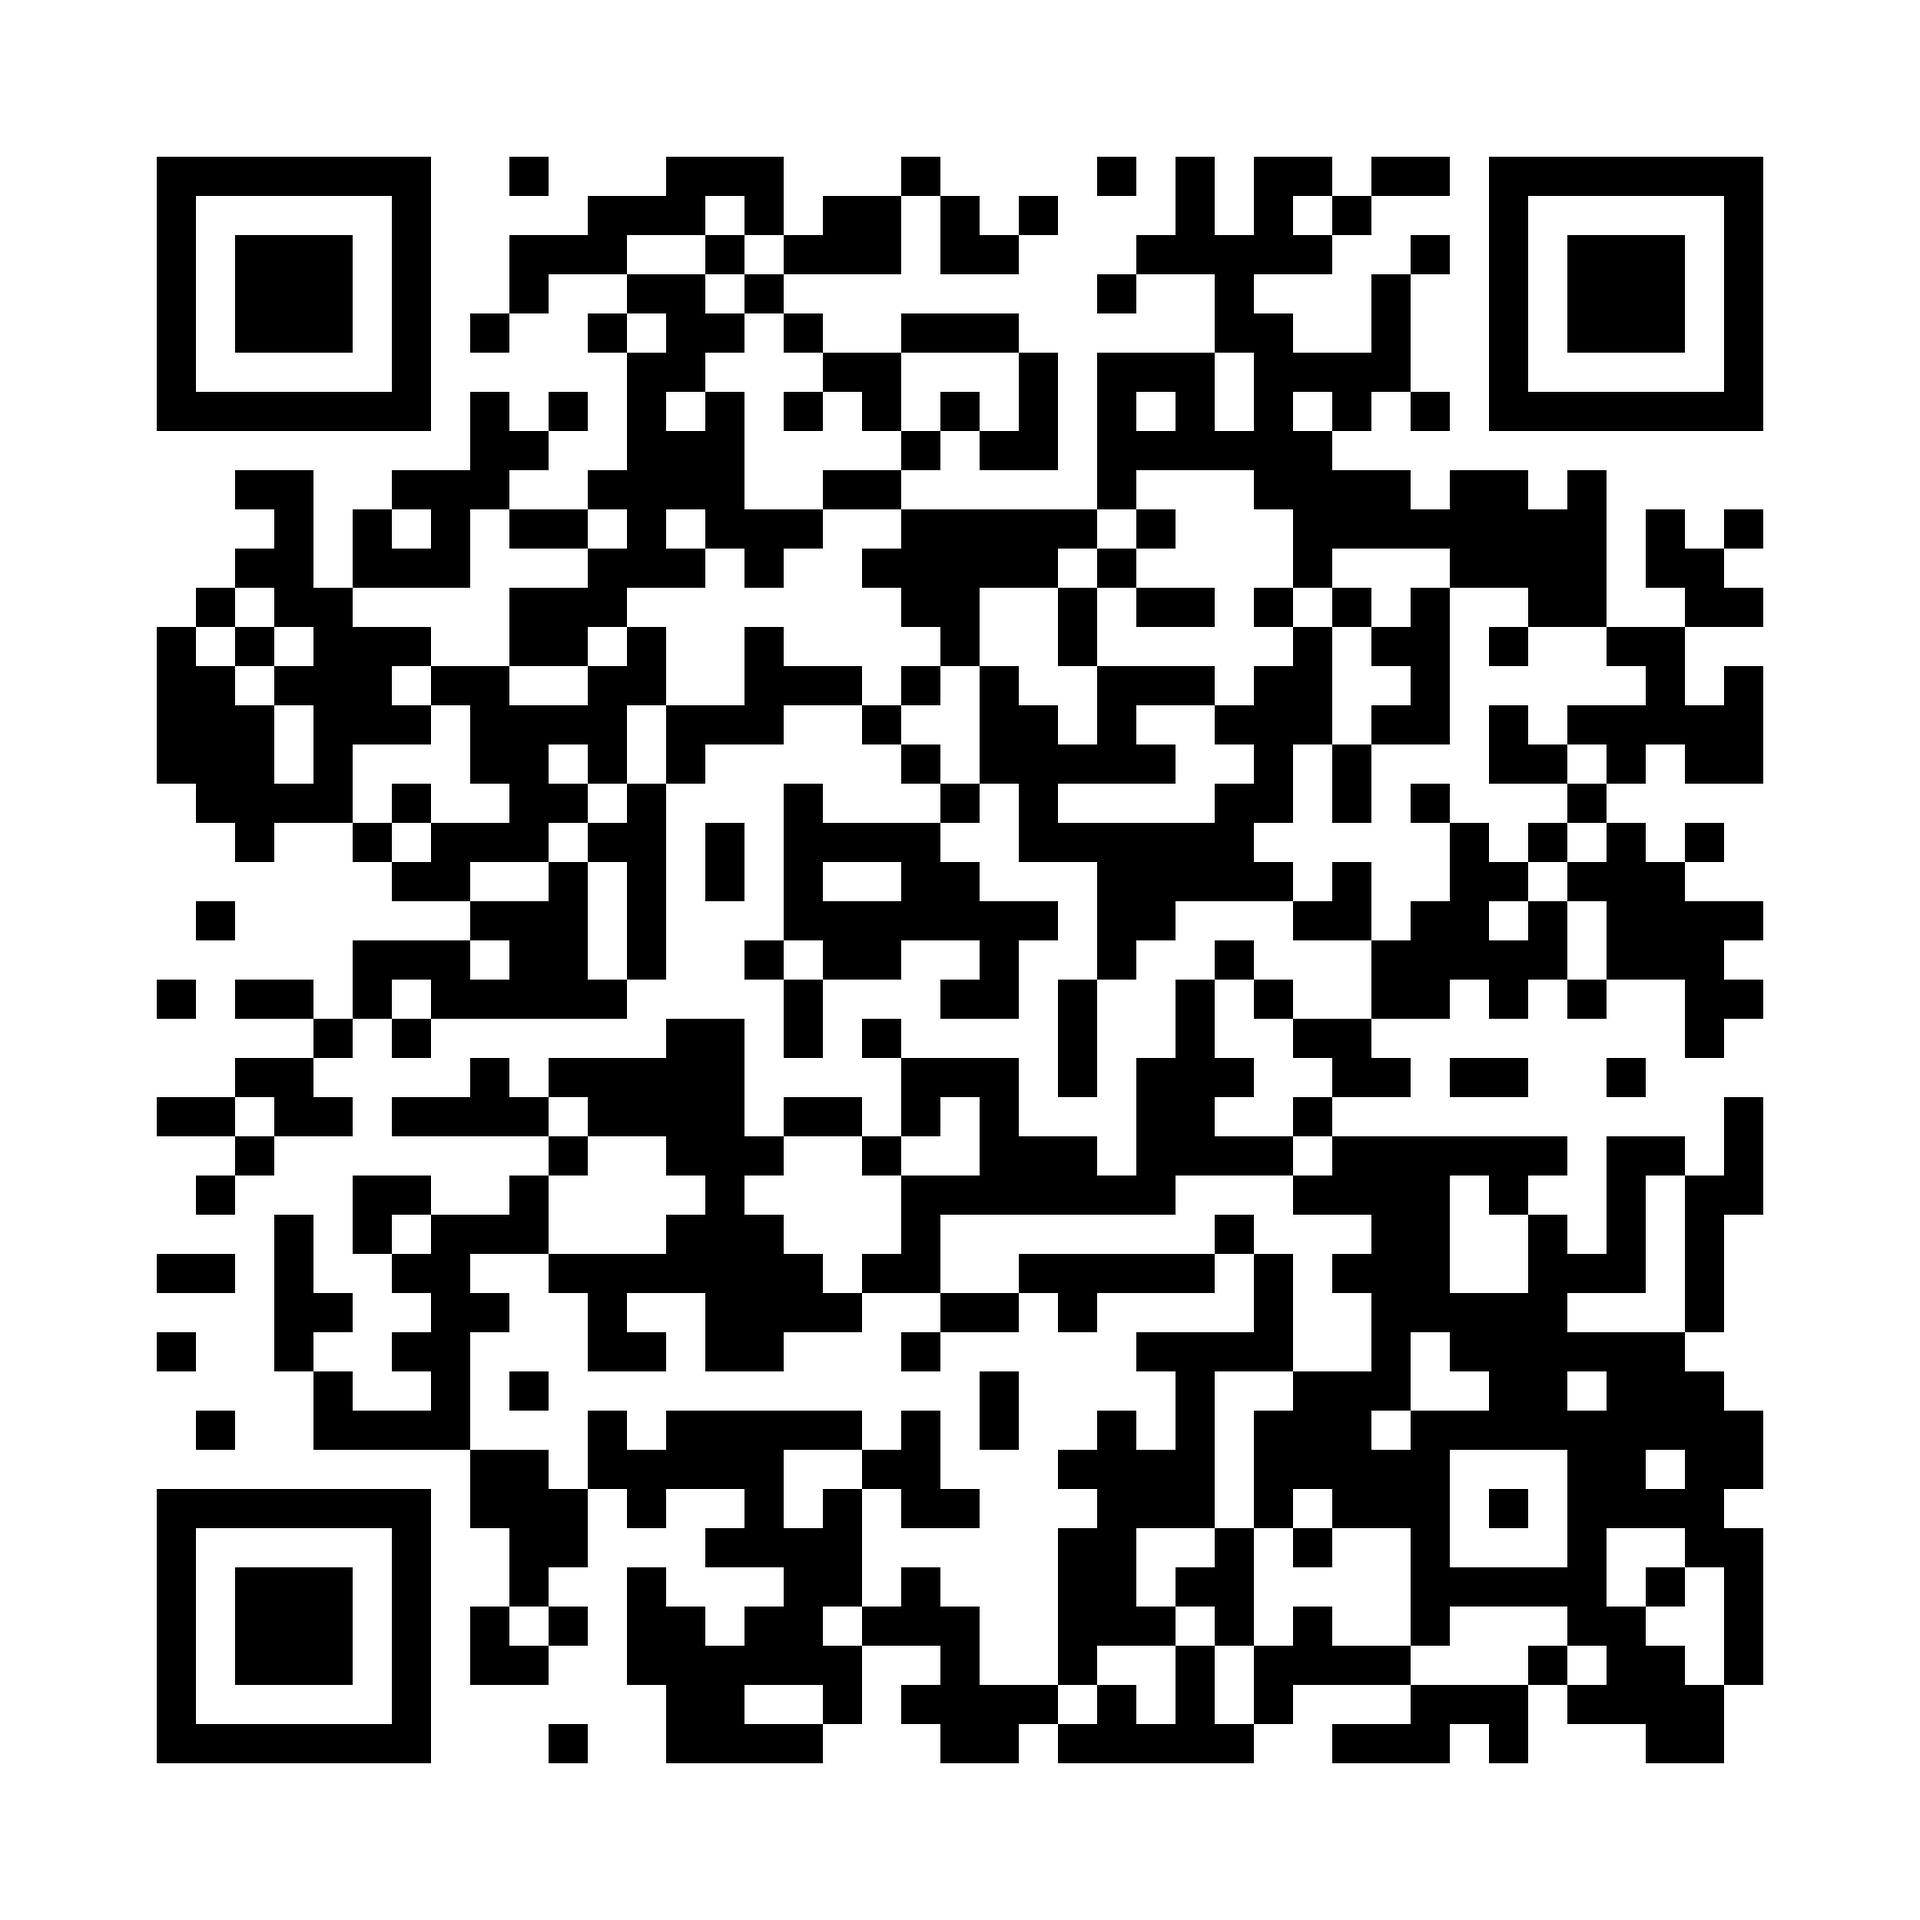
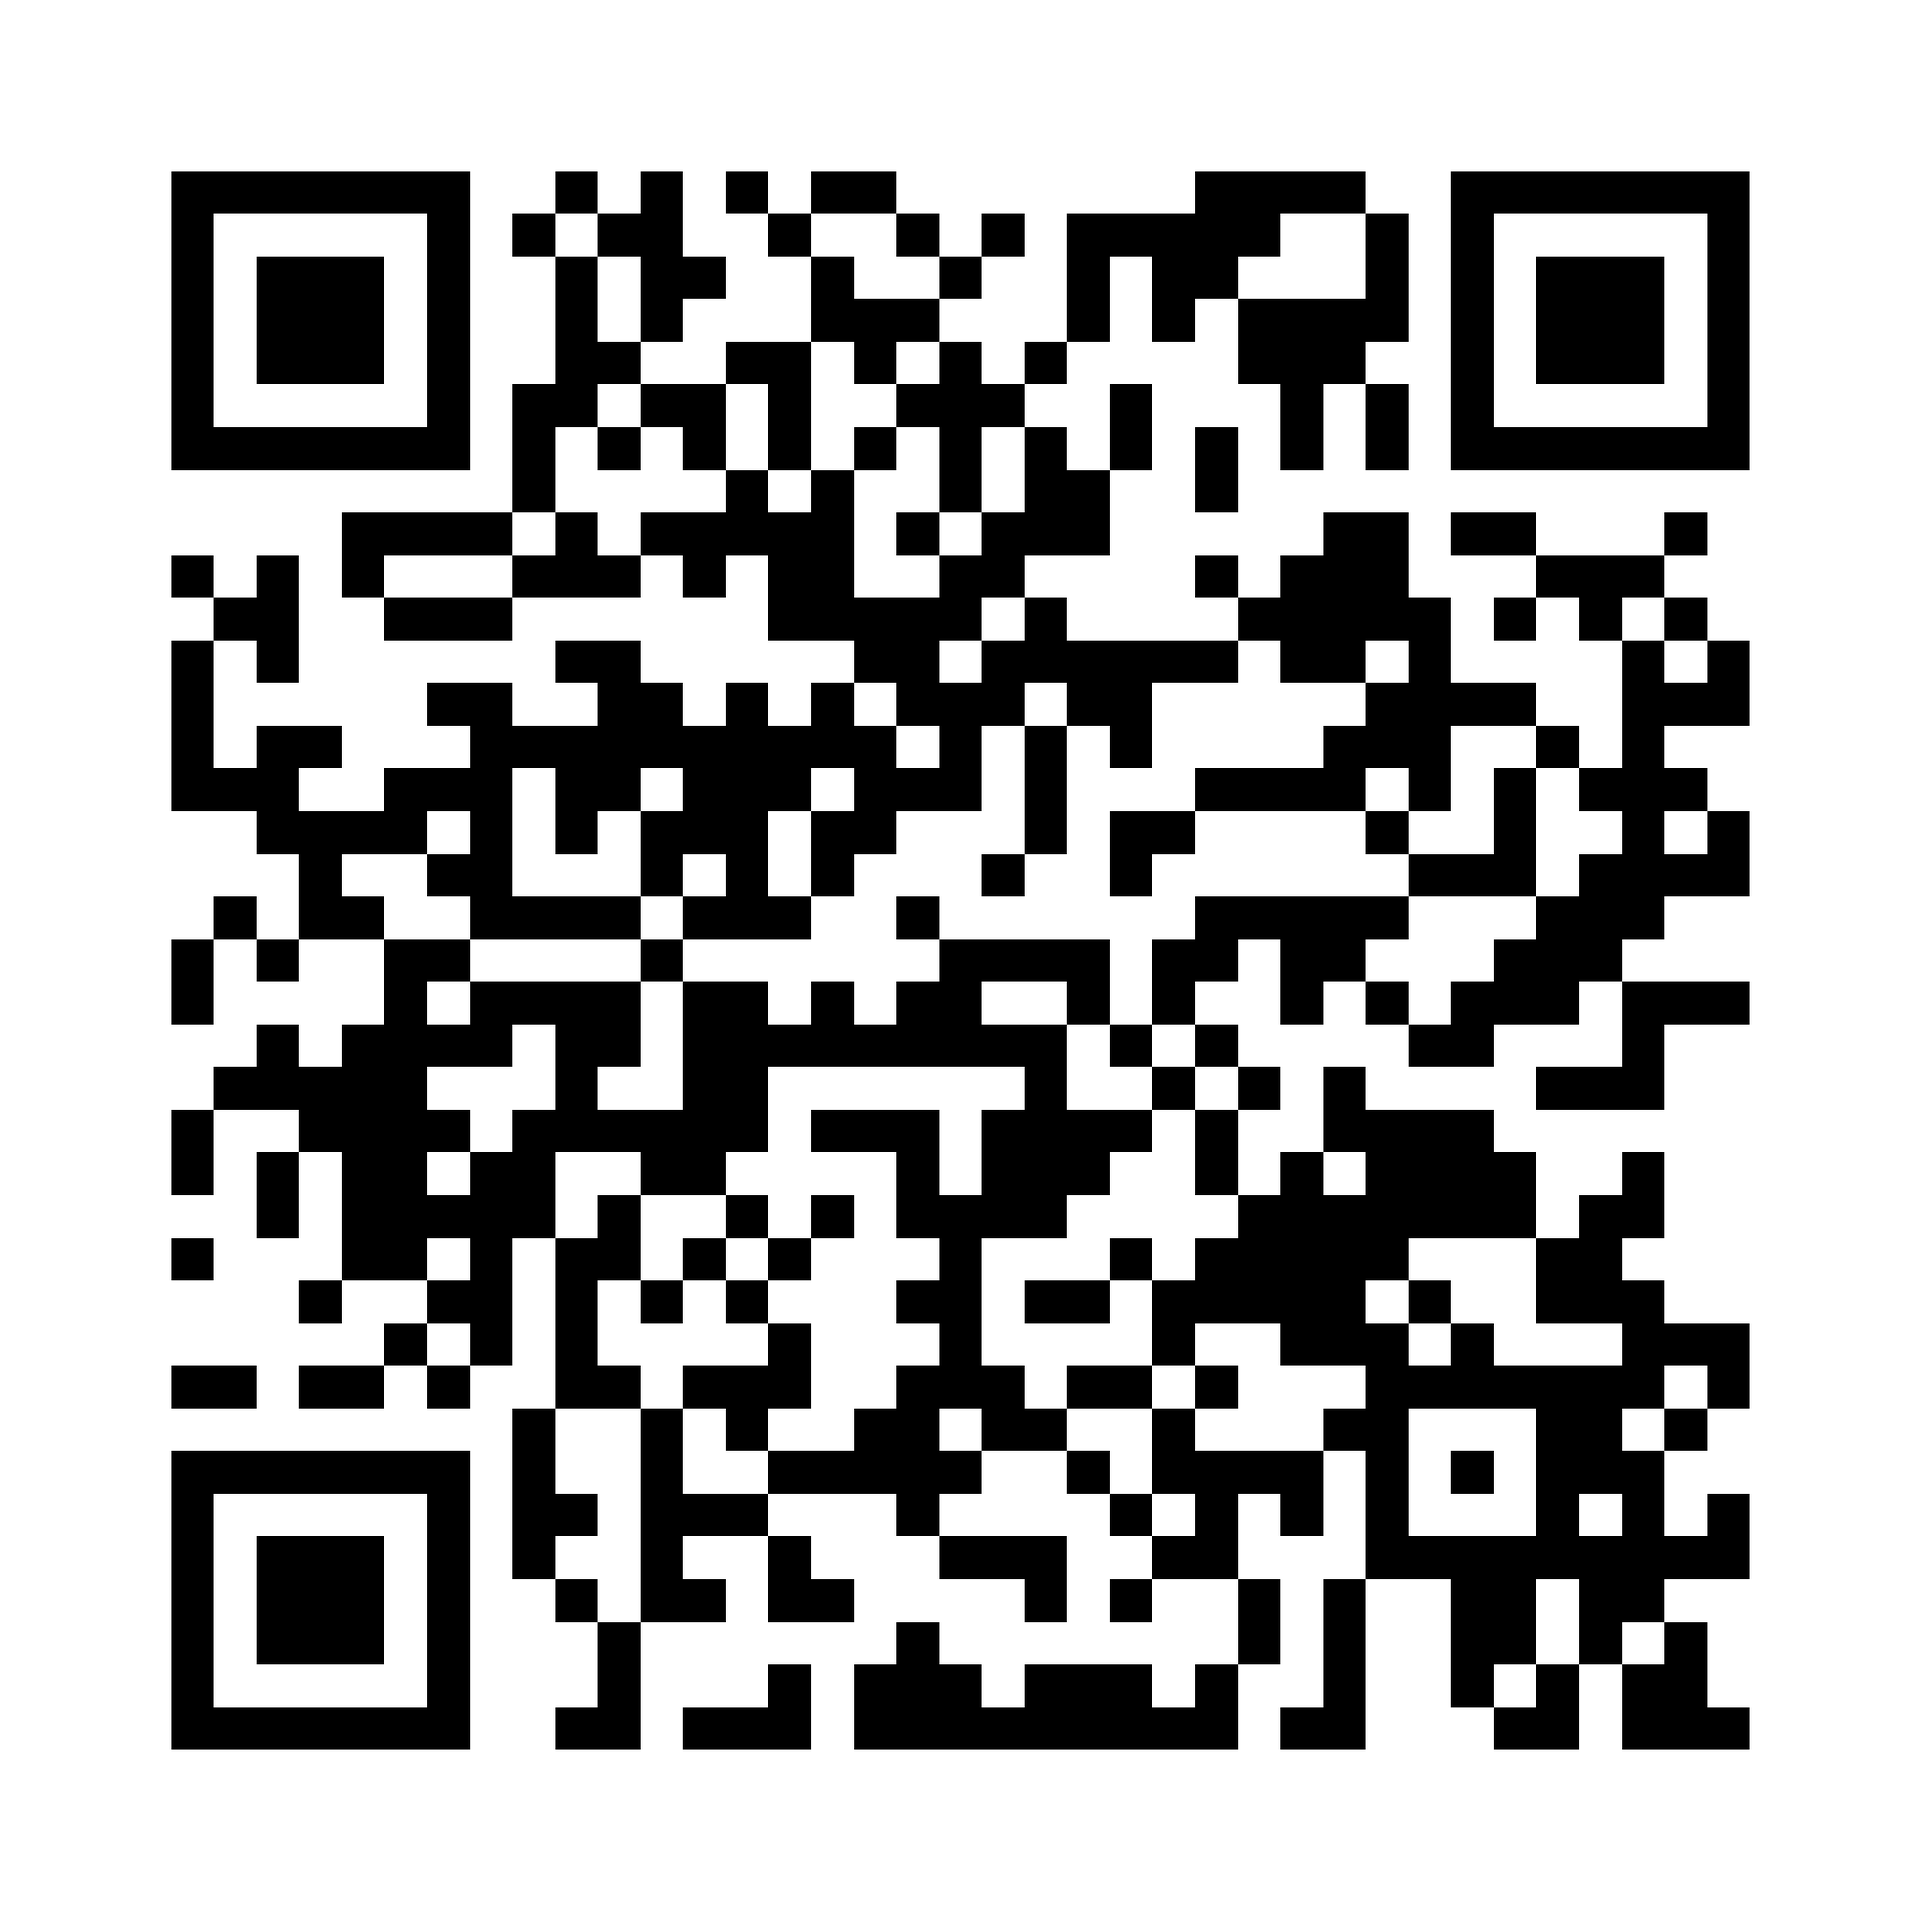
Regenerate the printed QR code for the new URL (#41)
The code now encodes https://www.noancc.org/register/indrajatra — the site's
own domain and the event's own path, reaching the page directly with no
redirect hop.

Verified by decoding the committed file rather than trusting the generator:
1960x1960, version 5, error correction H, decoding byte-for-byte to the
intended URL, and that URL resolving 200 with no redirect.

The previous image is kept as qr-register-print-OLD-vercel-url.png rather than
deleted. Anyone holding printed material from before today can decode their
copy and confirm what it points at. It still decodes to
newah-organization.vercel.app/register, which still resolves — through the two
redirects in next.config.ts.

PRINTED-QR.md is rewritten accordingly. The important change is the list of
things that break printed codes: it now names removing either redirect, and
letting noancc.org lapse. Domain registration is load-bearing for physical
material now, which it was not when the code pointed at a vercel.app hostname.

diff --git a/docs/PRINTED-QR.md b/docs/PRINTED-QR.md
@@ -1,58 +1,73 @@
 # The printed QR code — do not break this URL
 
-Physical QR codes have been printed pointing at:
+The current code encodes:
+
+```
+https://www.noancc.org/register/indrajatra
+```
+
+Version 5, error correction level **H** — roughly 30% of the code can be
+creased, stained or obscured and still scan, which is what a poster actually
+endures.
+
+**Source of truth:** `docs/qr-register-print.png` (1960×1960).
+Regenerated 2026-09-23 when the site moved to its own domain.
+
+A printed QR code cannot be updated. Once posters, flyers or signs are out,
+that URL has to keep resolving **forever**, or every printed code is dead with
+no way to fix it.
+
+## Codes printed before 2026-09-23
+
+Earlier material encodes the old address:
 
 ```
 https://newah-organization.vercel.app/register
 ```
 
-A printed code cannot be updated. Once posters, flyers or signs are out, that
-hostname has to keep resolving **forever**, or every printed code is dead with
-no way to fix it.
+**It still works**, and must continue to. Two redirects carry it:
+
+1. `newah-organization.vercel.app/*` → `www.noancc.org/*` (host redirect)
+2. `/register` → `/register/indrajatra` (path redirect)
+
+Both live in `next.config.ts`. The previous image is kept alongside as
+`qr-register-print-OLD-vercel-url.png` so anyone holding old material can
+confirm what it points at.
 
 ## What is safe
 
-- **Adding a custom domain** (e.g. noanc.org). Vercel keeps the project's
-  `.vercel.app` hostname working alongside any custom domain, so printed codes
-  keep working. New printed material should use the custom domain; old material
-  keeps working through this one.
-- Redeploying, changing the framework, editing the page — none of that touches
-  the hostname.
+- Redeploying, changing the framework, editing the page.
+- Adding further domains. Vercel keeps every attached hostname working.
+- Changing which host is canonical — **provided** the old one keeps redirecting
+  rather than being removed.
 
 ## What breaks every printed code
 
-- **Renaming the Vercel project.** The default hostname is derived from the
-  project name: rename `newah-organization` and the URL changes.
-- **Deleting the project**, or deleting that domain from the project.
-- **Transferring the project** to another account or team, which can reassign
-  the hostname if the name is already taken there.
-- Removing or redirecting away the `/register` route.
+- **Removing either redirect in `next.config.ts`.** The two above are the only
+  thing keeping pre-2026-09-23 material alive. They are not tidy-up candidates.
+- **Renaming the Vercel project.** The `.vercel.app` hostname derives from the
+  project name, so a rename changes it and the old code dies.
+- **Deleting the project**, or detaching `newah-organization.vercel.app` or
+  `www.noancc.org` from it.
+- **Letting `noancc.org` lapse.** Domain registration is now load-bearing for
+  printed material; a missed renewal kills every current code.
+- Removing or renaming the `/register/indrajatra` route without leaving a
+  redirect behind.
 
-## If a rename ever becomes unavoidable
+## Before printing a new batch
 
-Put a permanent redirect in place from the old hostname to the new one *before*
-the rename, and verify a printed code still resolves end to end. Do not rely on
-remembering — test an actual physical code with a phone.
-
-## The source of truth
-
-`brag-output-*/qr-register-print.png` — 1960x1960, QR version 6, error
-correction level H (~30% of the code can be damaged and still scan).
-
-It was verified by decoding, not by trusting the encoder: the generated file,
-the rendered video frame, and the final H.264-encoded MP4 all decode to the URL
-above.
-
-To regenerate or verify:
+Decode the actual file rather than trusting the generator, and confirm the
+decoded string resolves:
 
 ```bash
-uv run --with "qrcode[pil]" --with opencv-python-headless --with numpy python - <<'EOF'
-import qrcode, cv2
-from qrcode.constants import ERROR_CORRECT_H
-URL = "https://newah-organization.vercel.app/register"
-qr = qrcode.QRCode(error_correction=ERROR_CORRECT_H, box_size=40, border=4)
-qr.add_data(URL); qr.make(fit=True)
-qr.make_image(fill_color="black", back_color="white").convert("RGB").save("qr.png")
-print(cv2.QRCodeDetector().detectAndDecode(cv2.imread("qr.png"))[0] == URL)
-EOF
+# in a scratch dir
+npm install jsqr pngjs
+node -e '
+const fs=require("fs"),{PNG}=require("pngjs"),jsQR=require("jsqr");
+const p=PNG.sync.read(fs.readFileSync("docs/qr-register-print.png"));
+console.log(jsQR(new Uint8ClampedArray(p.data),p.width,p.height).data);
+'
 ```
+
+Then scan the printed sheet with an actual phone. A code that decodes in
+software can still fail on paper at the wrong size or contrast.
